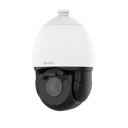
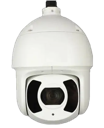
feat(satellite): PTZ 换用户新图(PTZ.png)且不参与调向
- asset 替换为桌面 PTZ.png(透明底正面照,568x700→104x128 保比例)
- 新增 pinRotates(key):pin 与 PTZ(全向云台)不旋转、确认后不进调向模式,
  地图渲染与 _editPin 调向入口统一走该谓词

diff --git a/grid_app/lib/fill/satellite_diagram_screen.dart b/grid_app/lib/fill/satellite_diagram_screen.dart
@@ -170,8 +170,9 @@ class _SatelliteDiagramScreenState extends State<SatelliteDiagramScreen> {
         final list = [..._pins];
         list[index] = list[index].copyWith(label: label, icon: icon);
         _pins = list;
-        // Device confirmed → straight into on-map aim mode (WYSIWYG heading).
-        _aiming = icon == 'pin' ? null : index;
+        // Directional device confirmed → straight into on-map aim mode
+        // (WYSIWYG heading). Pin and PTZ have no heading to aim.
+        _aiming = pinRotates(icon) ? index : null;
       });
     }
   }
@@ -298,15 +299,15 @@ class _SatelliteDiagramScreenState extends State<SatelliteDiagramScreen> {
                                     child: Text(_pins[i].label,
                                         style: const TextStyle(fontSize: 10)),
                                   ),
-                                // Device icons rotate with the aim handle so
-                                // the glyph itself shows the heading; the
-                                // classic pin never rotates (its tip marks the
-                                // coordinate). The dragged pin renders enlarged
-                                // as pickup feedback.
+                                // Directional icons rotate with the aim handle
+                                // so the glyph itself shows the heading; the
+                                // classic pin and the omnidirectional PTZ stay
+                                // upright (pinRotates). The dragged pin renders
+                                // enlarged as pickup feedback.
                                 Transform.rotate(
-                                  angle: _pins[i].icon == 'pin'
-                                      ? 0
-                                      : _pins[i].rotation * math.pi / 180,
+                                  angle: pinRotates(_pins[i].icon)
+                                      ? _pins[i].rotation * math.pi / 180
+                                      : 0,
                                   child: pinGlyph(_pins[i].icon,
                                       color: Colors.red,
                                       size: _dragging == i ? 44 : 36),

diff --git a/grid_app/lib/fill/pin_icons.dart b/grid_app/lib/fill/pin_icons.dart
@@ -13,12 +13,20 @@ import 'package:flutter/material.dart';
 /// upright — heading is applied by the caller via Transform.rotate.
 const pinIconKeys = ['pin', 'bullet', 'ptz', 'anpr', 'radar'];
 
+/// Whether a pin of [key] has an adjustable heading. The classic pin's tip
+/// marks the coordinate, and the PTZ (omnidirectional, drawn from its product
+/// photo) stays upright — neither rotates nor enters aim mode.
+bool pinRotates(String key) => key != 'pin' && key != 'ptz';
+
 /// Renders the glyph for [key] at [size] in [color] ([color] doesn't apply to
 /// the PTZ photo asset).
 Widget pinGlyph(String key, {required double size, required Color color}) {
   if (key == 'ptz') {
     return Image.asset('assets/pin_icons/ptz.png',
-        width: size, height: size, filterQuality: FilterQuality.medium);
+        width: size,
+        height: size,
+        fit: BoxFit.contain,
+        filterQuality: FilterQuality.medium);
   }
   final painter = switch (key) {
     'anpr' => _AnprCameraPainter(color),
